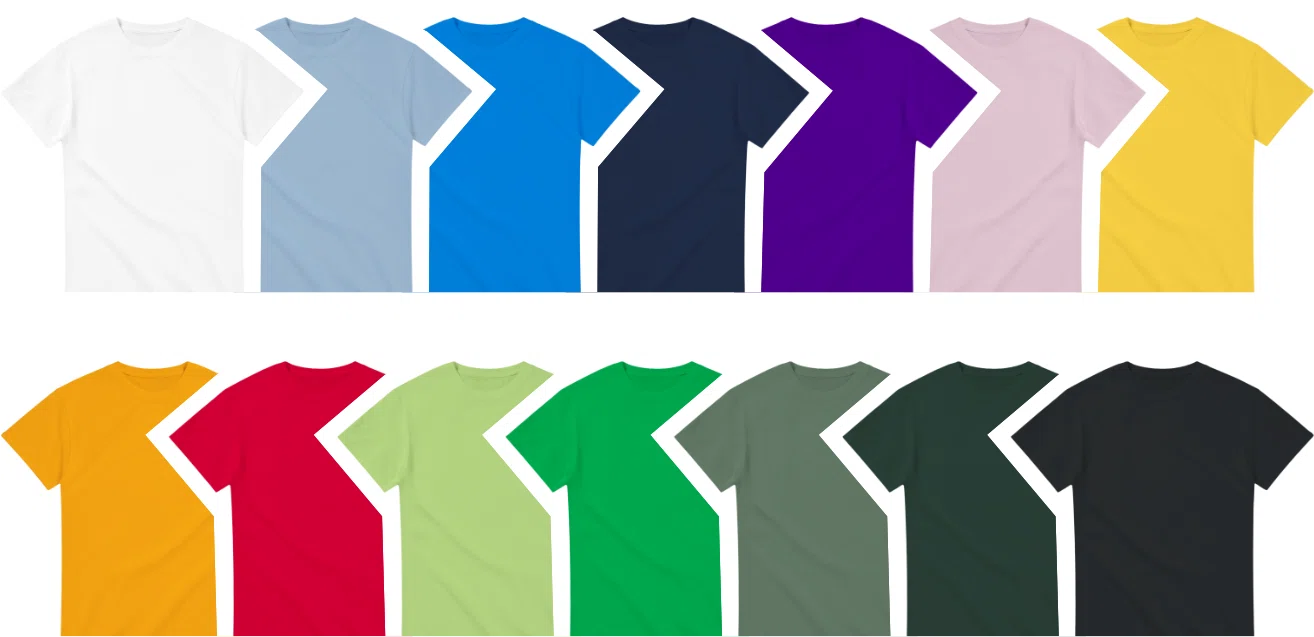
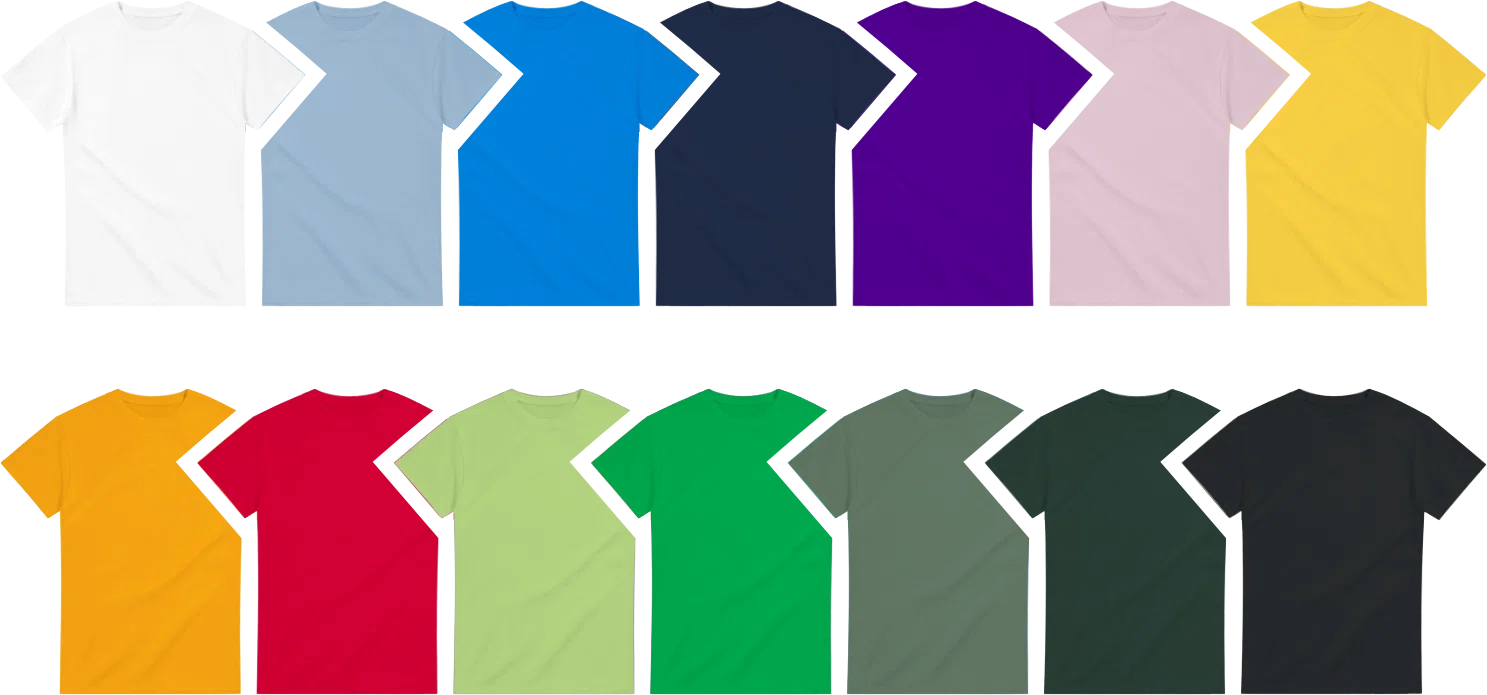
Megaslide: les imatges noves de la stripe, a les dues pagines
- Les imatges que ha donat l'amo (1487 x 694 i 1487 x 695, amb les samarretes
  senceres) substitueixen les anteriors: la de color a la pagina 1 (que encara
  tenia stripe-curta-7+7.png) i la blanca a la 2.
- Escales ajustades (2,177 i 2,105) perque totes dues franges facin la MATEIXA
  amplada.

Verificat a 768: p1 457,8 x 214 i p2 459,3 x 214,4 (la mateixa amplada i alcades
quasi iguals), el bottom de la p1 a 3,9 de la casella i el de la p2 al ras.
462 proves i build OK.

diff --git a/src/components/megaslide/MegaslidePagina2.jsx b/src/components/megaslide/MegaslidePagina2.jsx
@@ -719,7 +719,7 @@ export default function MegaslidePagina2({
               /* La franja de debò: el mateix panell que la filera, amb la imatge
                  de dues fileres (7+7), escalat per encaixar a la casella. */
               <div style={{ width: '100%', height: '100%', display: 'flex', alignItems: 'center', justifyContent: 'center' }}>
-                <div style={{ height: '100%', transform: 'translateY(-133.55px) scale(2.183)', transformOrigin: 'center center', '--megaStripeDx': '0px', '--megaStripeDy': '0px' }}>
+                <div style={{ height: '100%', transform: 'translateY(-124.36px) scale(2.105)', transformOrigin: 'center center', '--megaStripeDx': '0px', '--megaStripeDy': '0px' }}>
                   <MegaStripePanel
                     {...propsFranjaP2}
                     isPortraitTablet

diff --git a/src/components/fullwide/MegaMenuPanel.jsx b/src/components/fullwide/MegaMenuPanel.jsx
@@ -473,7 +473,7 @@ export default function MegaMenuPanel({
                               <MegaStripePanelP1
                                 {...propsFranjaP1}
                                 isPortraitTablet
-                                stripeImageSrc="/placeholders/tablet vertical/stripe-curta-7+7.png"
+                                stripeImageSrc="/placeholders/tablet vertical/full-color-stripe-doble.webp"
                                 senseMascaraSamarreta
                               />
                             </div>
